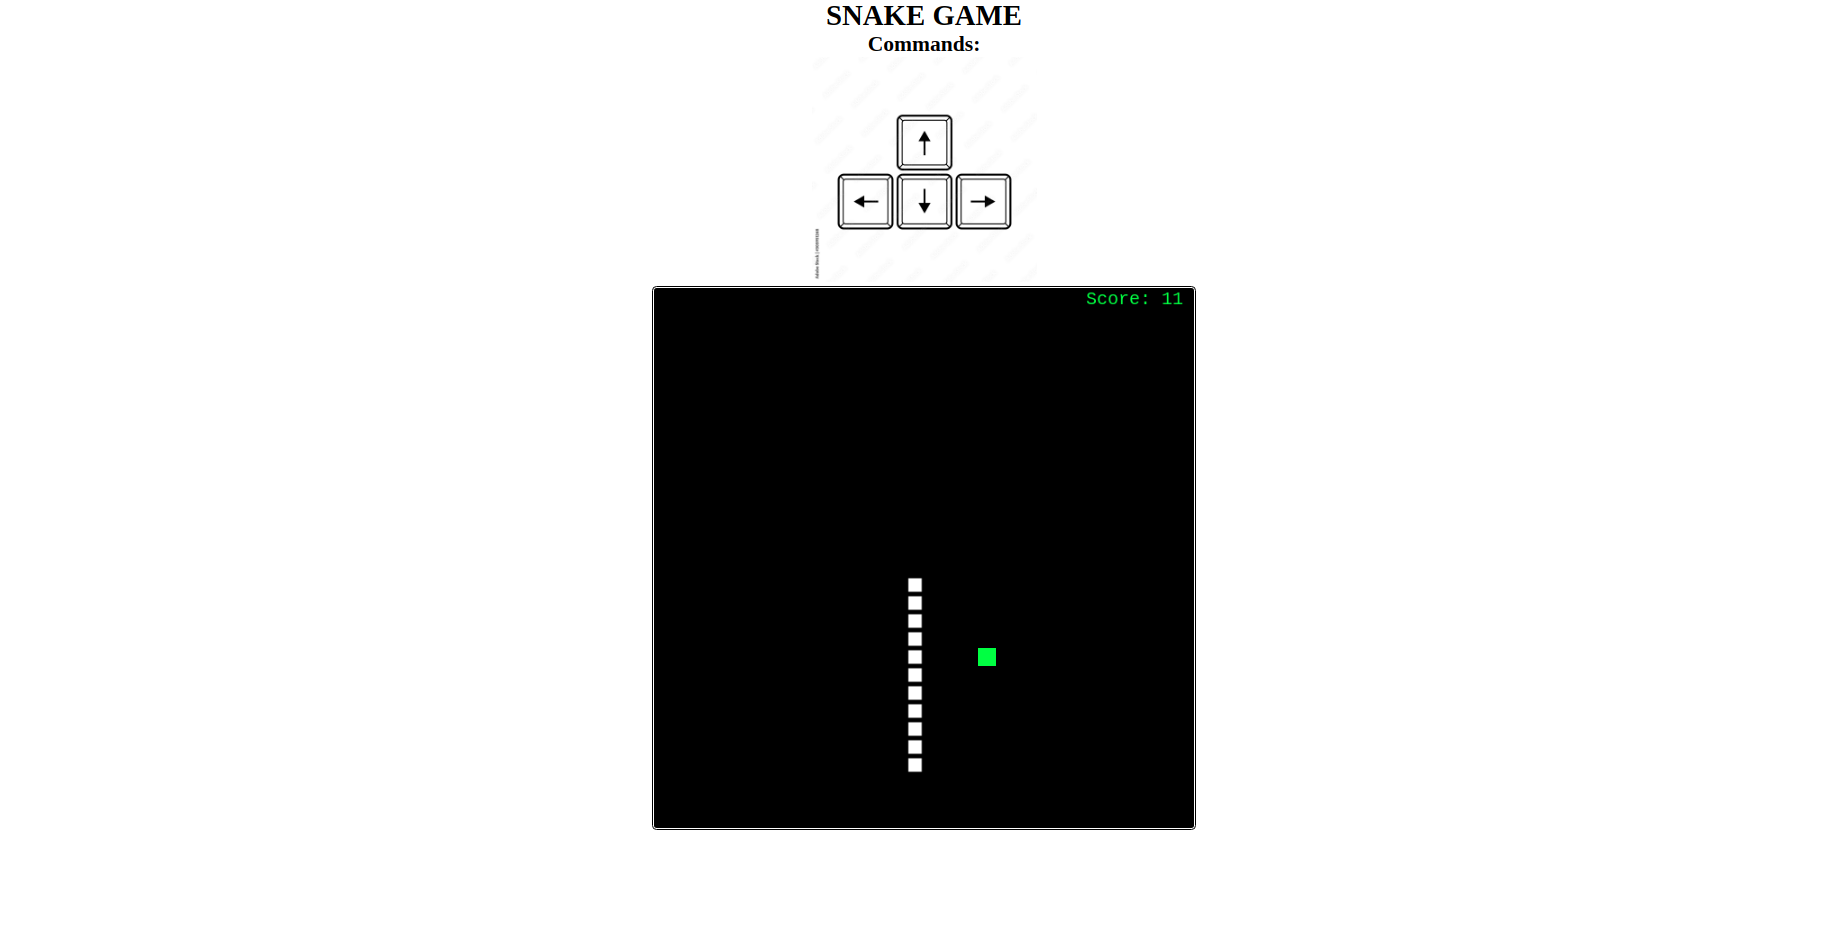
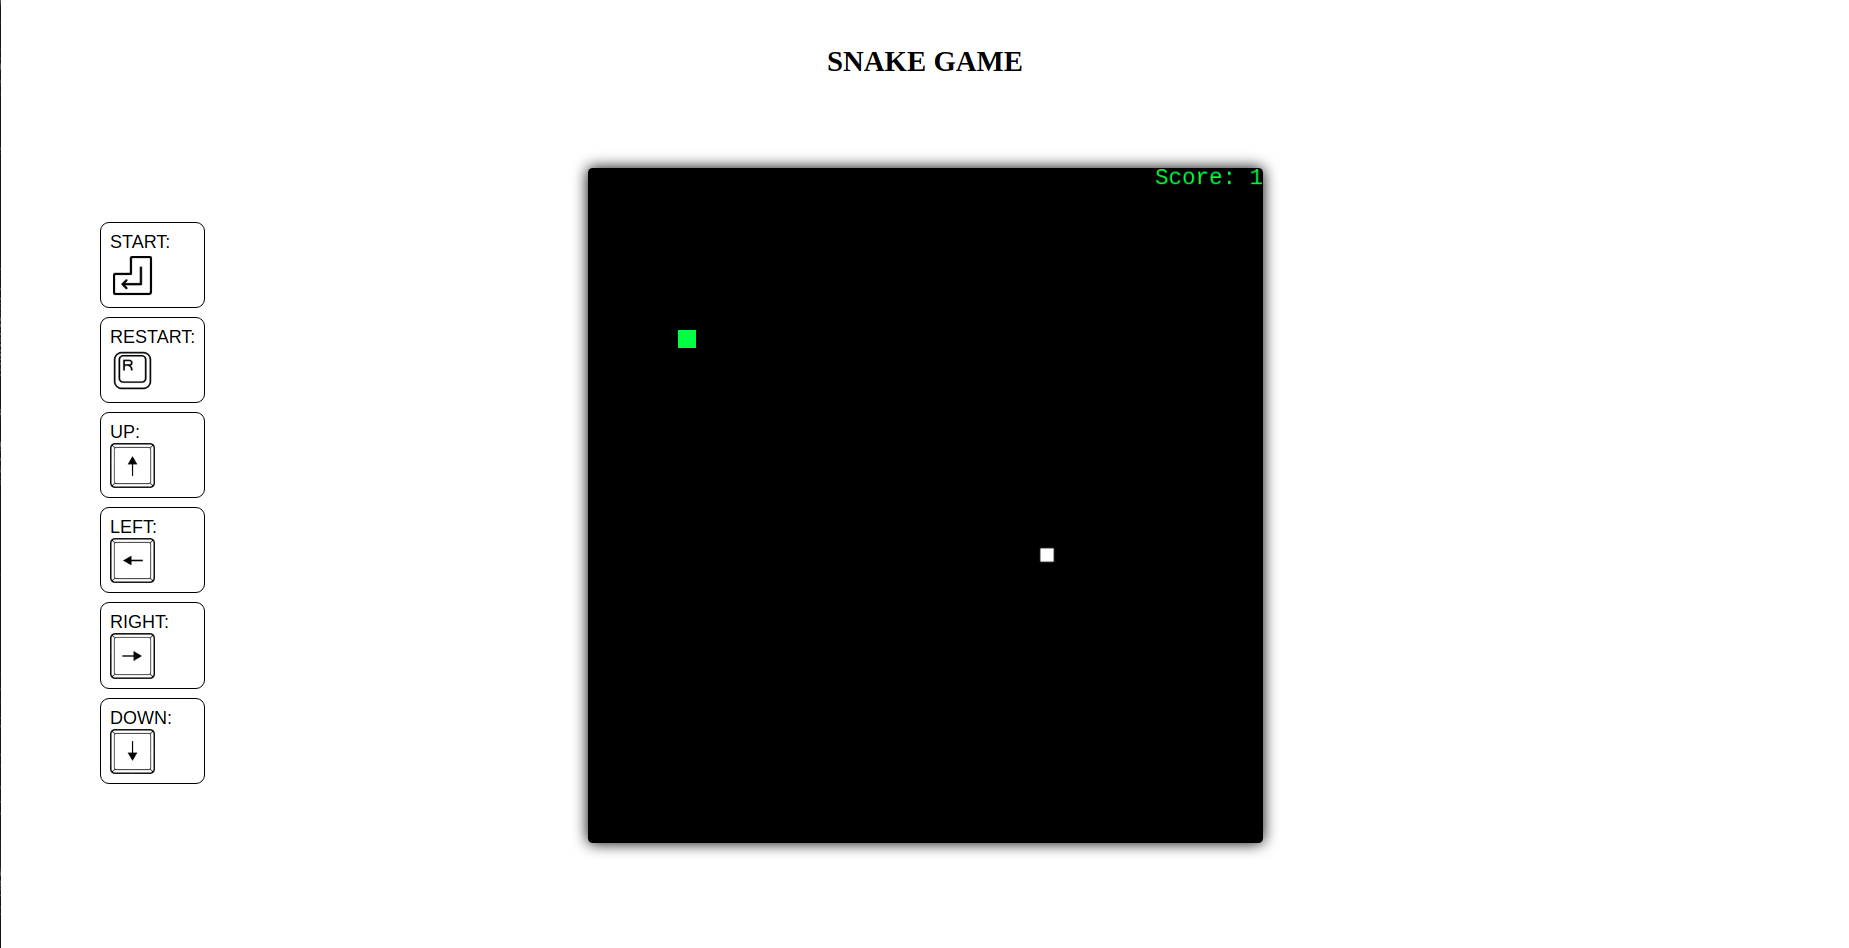
update game

diff --git a/index.html b/index.html
@@ -6,17 +6,47 @@
     <meta http-equiv="X-UA-Compatible" content="IE=edge">
     <meta name="viewport" content="width=device-width, initial-scale=1.0">
     <link rel="stylesheet" href="style.css">
+    <link rel="shortcut icon" href="./img/snake-con.png" type="image/x-icon" />
     <title>Snake Game</title>
 </head>
 
 <body>
 
-    <h1 class="title">TESTE</h1>
-    <h2 class="title">Commands:</h2>
-    <center><img class="img" src="./img/1000_F_305951268_Fz8eLZQwldKrolefBmFPEUK3t51LXLyc.jpg" alt=""></center>
-    <center><canvas class="display" id="canvas" width="600" height="600"></canvas></center>
+    <div class="container">
+        <h1 class="title">SNAKE GAME</h1>
+
+        <div class="container-cards">
+            <div class="card">
+                <p>START: <img class="img" src="./img/enter-key.png" alt="enter-key.png"></p>
+
+            </div>
+            <div class="card">
+                <p>RESTART: <img class="img" src="./img/r-img.png" alt="r-img.png"></p>
+
+            </div>
+            <div class="card">
+                <p>UP: <img class="img" src="./img/up-key-img.png" alt="up-key-img.png"></p>
+
+            </div>
+            <div class="card">
+                <p>LEFT: <img class="img" src="./img/left-key-img.png" alt="left-key-img.png"></p>
+
+            </div>
+            <div class="card">
+                <p>RIGHT: <img class="img" src="./img/rigth-key-img.png" alt="rigth-key-img.png"></p>
+
+            </div>
+            <div class="card">
+                <p>DOWN: <img class="img" src="./img/down-key-img.png" alt="down-key-img.png"></p>
+
+            </div>
+        </div>
+
+        <center><canvas class="display" id="canvas" width="750" height="750"></canvas></center>
+    </div>
 
     <script src="./script.js"></script>
+
 </body>
 
 </html>

diff --git a/style.css b/style.css
@@ -1,18 +1,55 @@
-*{
+* {
     margin: 0;
     padding: 0;
 }
 
-.title{
+.title {
+    margin-top: 50px;
     text-align: center;
 }
 
-.display{
-    border: 2px solid black;
+.container-cards {
+    margin-left: 100px;
+    margin-top: 150px;
+    position: absolute;
+    padding: 10px;
+    display: flex;
+    flex-direction: column;
+    gap: 10px;
+}
+
+.card {
+    font-size: 20px;
+    font-family: sans-serif;
+    border: 1px solid black;
+    padding: 10px;
+    border-radius: 10px;
+}
+
+.img {
+    width: 50px;
+    display: flex;
+    align-items: center;
+}
+
+.display {
+    margin-top: 100px;
     border-radius: 5px;
+    box-shadow: 0 0 17px black;
 }
 
-.img{
-    width: 250px;
-    text-align: center;
+@media (max-width: 1250px) {
+    .container-cards {
+        position: relative;
+        margin-top: 70px;
+
+        display: grid;
+        grid-template-columns: 1fr 1fr 1fr 1fr 1fr 1fr 1fr;
+        align-items: center;
+        flex: auto;
+    }
+
+    .display {
+        margin-bottom: 50px;
+    }
 }

diff --git a/script.js b/script.js
@@ -97,7 +97,7 @@ function checkHitWall() {
     } else if (headTail.x == canvas.width) {
         headTail.x = 0
     } else if (headTail.y == - snake.size) {
-        headTail.y= canvas.height - snake.size
+        headTail.y = canvas.height - snake.size
     } else if (headTail.y == - canvas.height) {
         headTail.y = 0
     }
@@ -145,3 +145,13 @@ window.addEventListener('keydown', (event) => {
         }
     }, 1)
 })
+
+const reload = (event) => {
+    const key = event.key;
+
+    if (key === 'r') {
+        location.reload();
+    }
+}
+
+document.addEventListener('keydown', reload);

diff --git a/readme.md b/readme.md
@@ -1,7 +1,7 @@
 # Snake Game
 
+![alt text](img/readme-img1.png)
 ![alt text](img/readme-img2.png)
-![alt text](img/readme-img3.png)
 
 ### Tecnologias
 
